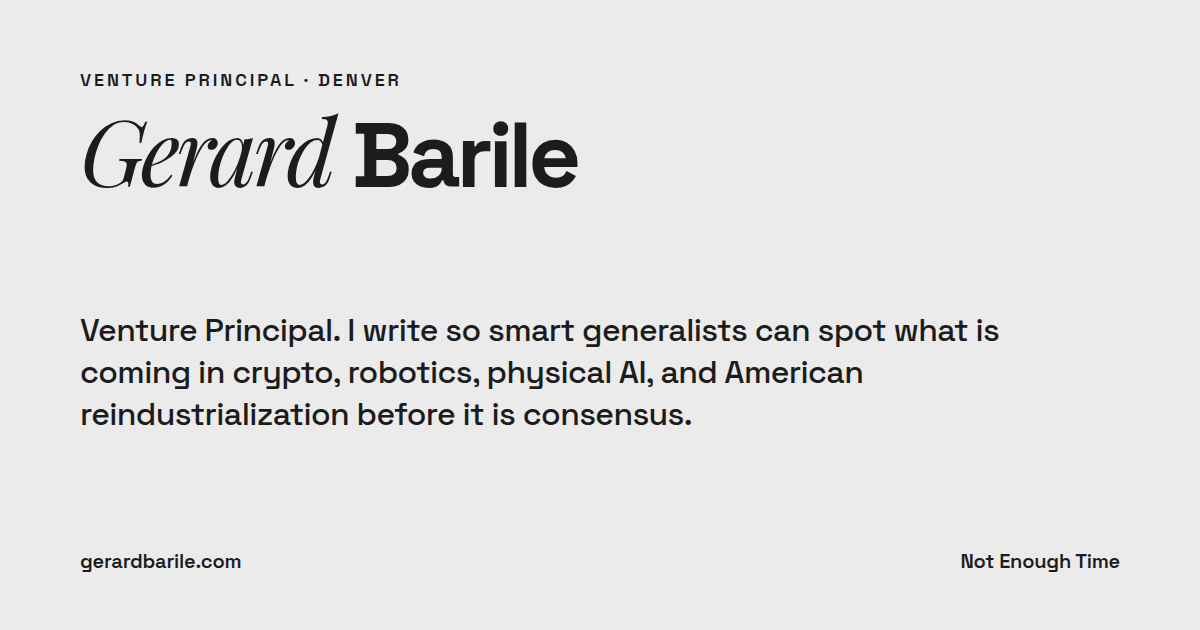
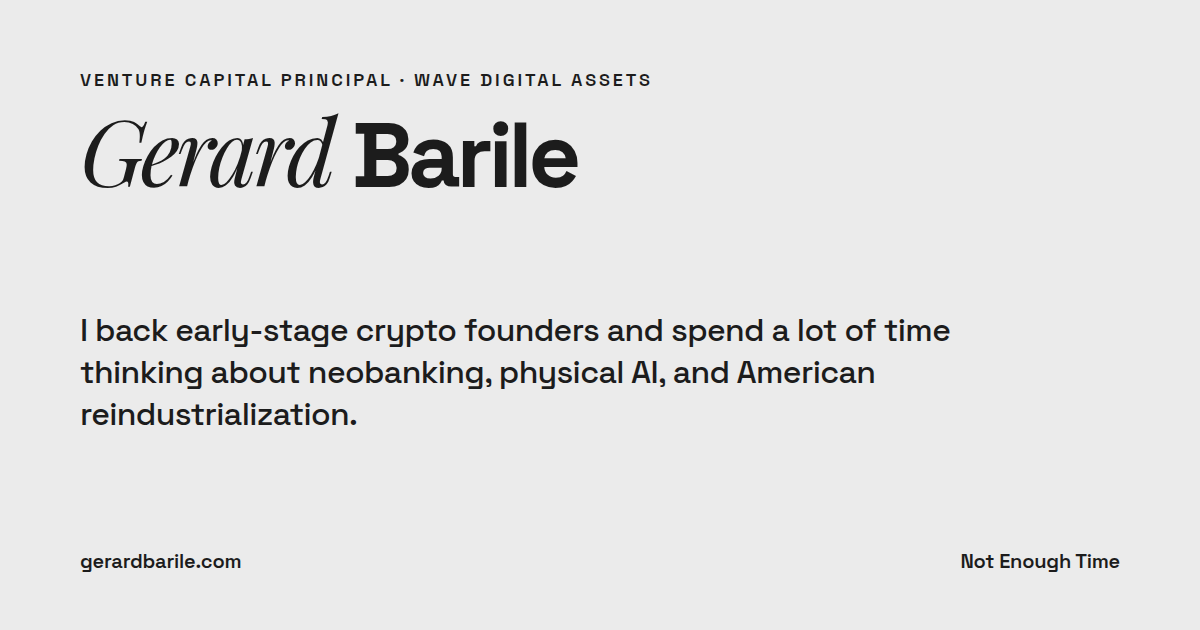
State the Wave role and the three themes
Set the hero to the Venture Capital Principal line, and point the focus
areas, social descriptions, and share card at neobanking, physical AI,
and American reindustrialization.

Changed region(s): [[0.0617, 0.573, 0.74, 0.6937], [0.0617, 0.5127, 0.8325, 0.5429], [0.1542, 0.1206, 0.555, 0.1508]]

diff --git a/index.html b/index.html
@@ -3,18 +3,18 @@
 <head>
   <meta charset="UTF-8">
   <meta name="viewport" content="width=device-width, initial-scale=1.0">
-  <title>Gerard Barile — Venture Principal | Crypto, Robotics, American Reindustrialization</title>
-  <meta name="description" content="Denver-based Venture Principal writing on crypto, robotics and physical AI, American reindustrialization, and how the world works. Read Not Enough Time. Founders: DM @GerardBarile.">
+  <title>Gerard Barile — Venture Capital Principal | Neobanking, Physical AI, American Reindustrialization</title>
+  <meta name="description" content="Venture Capital Principal at Wave Digital Assets in Denver. I back early-stage crypto founders and spend a lot of time thinking about neobanking, physical AI, and American reindustrialization. Read Not Enough Time. Founders: DM @GerardBarile.">
   <link rel="canonical" href="https://gerardbarile.com/">
   <meta property="og:type" content="website">
   <meta property="og:url" content="https://gerardbarile.com/">
-  <meta property="og:title" content="Gerard Barile — Venture Principal | Crypto, Robotics, American Reindustrialization">
-  <meta property="og:description" content="Denver-based Venture Principal writing on crypto, robotics and physical AI, American reindustrialization, and how the world works. Read Not Enough Time. Founders: DM @GerardBarile.">
+  <meta property="og:title" content="Gerard Barile — Venture Capital Principal | Neobanking, Physical AI, American Reindustrialization">
+  <meta property="og:description" content="Venture Capital Principal at Wave Digital Assets in Denver. I back early-stage crypto founders and spend a lot of time thinking about neobanking, physical AI, and American reindustrialization. Read Not Enough Time. Founders: DM @GerardBarile.">
   <meta property="og:image" content="https://gerardbarile.com/og.png">
   <meta name="twitter:card" content="summary_large_image">
   <meta name="twitter:site" content="@GerardBarile">
-  <meta name="twitter:title" content="Gerard Barile — Venture Principal | Crypto, Robotics, American Reindustrialization">
-  <meta name="twitter:description" content="Denver-based Venture Principal writing on crypto, robotics and physical AI, American reindustrialization, and how the world works. Read Not Enough Time. Founders: DM @GerardBarile.">
+  <meta name="twitter:title" content="Gerard Barile — Venture Capital Principal | Neobanking, Physical AI, American Reindustrialization">
+  <meta name="twitter:description" content="Venture Capital Principal at Wave Digital Assets in Denver. I back early-stage crypto founders and spend a lot of time thinking about neobanking, physical AI, and American reindustrialization. Read Not Enough Time. Founders: DM @GerardBarile.">
   <meta name="twitter:image" content="https://gerardbarile.com/og.png">
   <link rel="icon" href="favicon.svg" type="image/svg+xml">
   <link rel="preconnect" href="https://fonts.googleapis.com">
@@ -466,6 +466,7 @@
       }
       .site-nav a.nav-cta { order: 0; }
       section[id] { scroll-margin-top: 7rem; }
+      .focus-grid { grid-template-columns: 1fr 1fr 1fr; }
     }
 
     @media (prefers-reduced-motion: reduce) {
@@ -514,8 +515,8 @@
           <span class="first">Gerard</span>
           <span class="last">Barile</span>
         </h1>
-        <p class="stake">Venture Principal. I write so smart generalists can spot what is coming in crypto, robotics, physical AI, and American reindustrialization before it is consensus.</p>
-        <p class="subhead">Early-stage crypto venture. Robotics and physical AI unit economics. American reindustrialization. How the world actually works. Denver.</p>
+        <p class="stake">I'm Gerard Barile, a Venture Capital Principal at Wave Digital Assets in Denver.</p>
+        <p class="subhead">I back early-stage crypto founders and spend a lot of time thinking about neobanking, physical AI, and American reindustrialization.</p>
         <div class="hero-actions">
           <div class="btn-row">
             <a class="btn btn-primary" href="https://notenoughtime.gerardbarile.com/" target="_blank" rel="noopener noreferrer" aria-describedby="net-note">Not Enough Time<span class="sr-only"> (opens in a new tab)</span></a>
@@ -546,23 +547,18 @@
         <div class="focus-grid">
           <article class="focus-card">
             <p class="num">01</p>
-            <h3>Crypto and money</h3>
-            <p>Stablecoin payments, onchain finance, market structure. Velocity and distribution over issuance theater.</p>
+            <h3>Neobanking</h3>
+            <p>Digital banks and the money apps built on them. Who holds the license, who holds the deposit, and what has to be true for it to last.</p>
           </article>
           <article class="focus-card">
             <p class="num">02</p>
-            <h3>Robotics + AI</h3>
+            <h3>Physical AI</h3>
             <p>Unit economics of useful work: cost per productive hour, utilization, the integration layer that survives a shift.</p>
           </article>
           <article class="focus-card">
             <p class="num">03</p>
             <h3>American reindustrialization</h3>
             <p>Energy, housing, manufacturing, skilled trades, and the capital that rebuilds real capacity in the U.S.</p>
-          </article>
-          <article class="focus-card">
-            <p class="num">04</p>
-            <h3>How the world works</h3>
-            <p>Institutions, labor, demographics, incentives. Bottleneck numbers, not abundance slogans.</p>
           </article>
         </div>
       </section>
